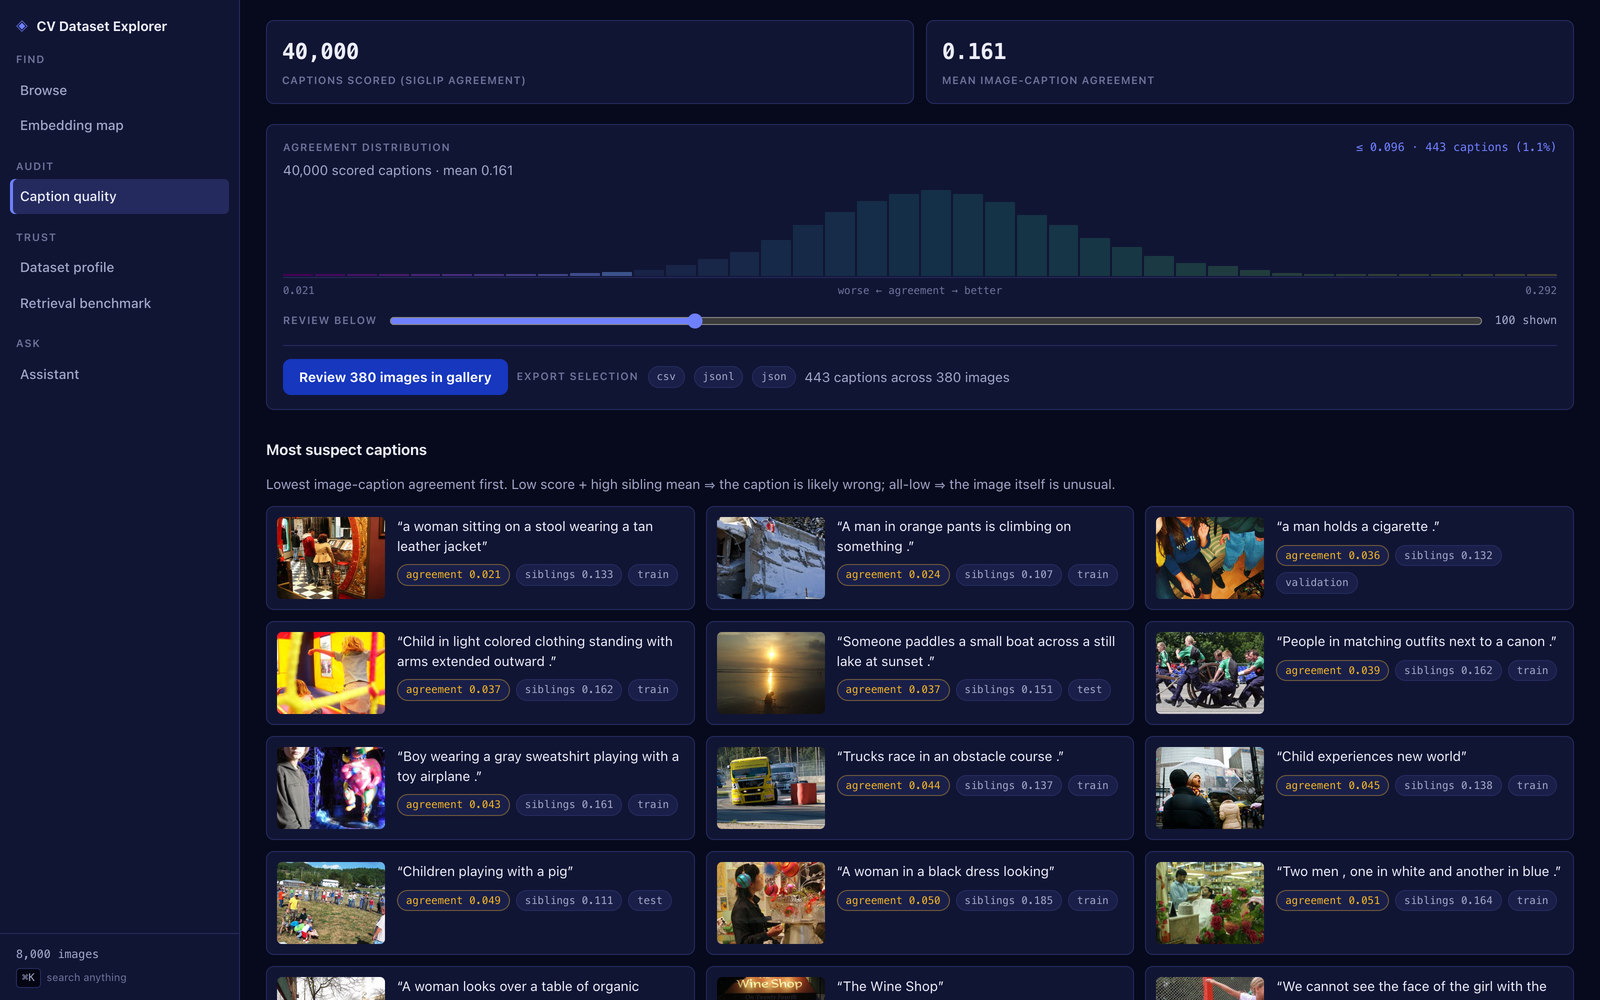
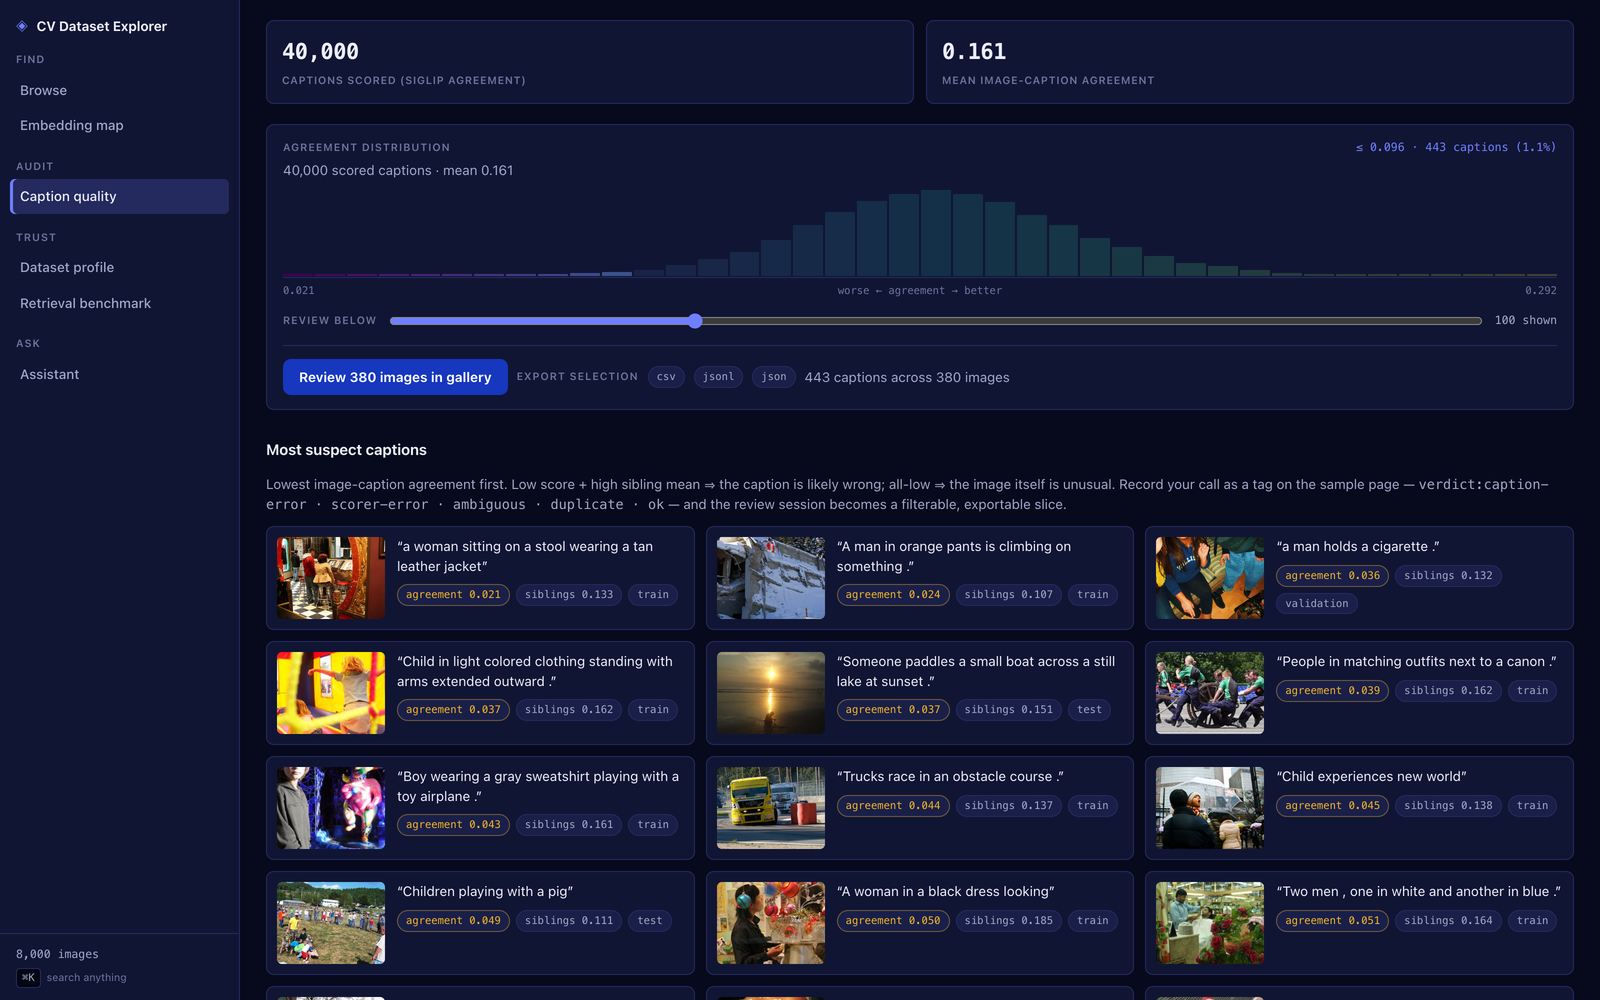
Sync the written record with what the app now shows
The inspector section names the similarity floor and the coverage-gap
state, the manifest line gains the embeddings fingerprint, named views
mention the env-differs warning, and the demo script quotes today's
measured sweep (90/90 in 76s, was 63/63). The two figures those words
describe are regenerated from the running app.

Changed region(s): [[0.1562, 0.465, 1.0, 1.0]]

diff --git a/README.md b/README.md
@@ -233,7 +233,11 @@ zero-shot attributes, metadata, tags, and nearest neighbours](docs/screenshots/9
 
 `/samples/1865` — All five captions with their individual agreement scores, so a
 disagreement is visible rather than averaged away, plus nearest neighbours in
-embedding space.
+embedding space. Each neighbour carries its cosine similarity; below a
+corpus-derived floor (the 10th percentile of nearest-neighbour similarity,
+`?min_sim=` to override) neighbours grey out rather than pose as a class, and
+when nothing clears it the page reports a possible coverage gap — the grid
+always returns k cards, so an absence has to be said, not padded over.
 
 ### Command palette
 
@@ -272,10 +276,10 @@ generated by a local 8B model, so quality varies between runs.
 - **Benchmark** — the tool measures its own search quality: standard Flickr8k text→image retrieval recall@1/5/10 for every mode, using the dataset's captions as ground truth. When a trained PRISM model is present, the table adds a paired test-split comparison so the boosted mode's gain is measured, not asserted.
 - **Assistant (optional)** — a chat interface backed by a **Fugu-style multi-agent orchestration** (LangGraph over local Ollama): an orchestrator routes requests to retrieval and insights specialist agents, and a synthesizer quality-gates the answer. Agents use the same service functions as the REST API and can search, inspect, analyze coverage, audit captions, and tag samples. The UI shows the agent/tool trace for every answer.
 - **Curation workflow, closing both ways** — the point of a search tool over a dataset is composing a training set, so a slice has to be able to leave and come back:
-  - **Out:** export the current view — filters *or* a ranked search result — as JSON, JSONL or CSV. The manifest records the query, the axis bounds and the embedding model, because a slice you cannot regenerate is not curation.
+  - **Out:** export the current view — filters *or* a ranked search result — as JSON, JSONL or CSV. The manifest records the query, the axis bounds, the embedding model and a fingerprint of the embeddings that scored it, because a slice you cannot regenerate is not curation.
   - **In:** paste or upload a list of ids or filenames (the **Id list** panel). Both are accepted because both are things you already have — this tool's own export, or anything that touched the images on disk. It composes with every other filter rather than replacing them, and reports how many entries exist here, so a list carried over from a larger corpus tells you "412 of your 500" instead of failing.
   - Tag samples manually, in bulk by lassoing a region of the map, or via the assistant; filter by tag.
-- **Named views** — save the current filter set under a name and restore it later. Stored as the URL query string, opaquely, so a view keeps working when the UI grows a filter the backend has no column for.
+- **Named views** — save the current filter set under a name and restore it later. Stored as the URL query string, opaquely, so a view keeps working when the UI grows a filter the backend has no column for. A view also pins the embedding model and corpus fingerprint it was saved under; restored in a different environment it still loads, with a non-blocking "env differs" warning instead of a silent lie.
 - **Legible filter state** — every active constraint appears as a removable chip above the results, so you never reach an empty page wondering which of five filters emptied it.
 - **Optional VLM enrichment** — tag every image with a local vision-language model via [Ollama](https://ollama.com).
 

diff --git a/docs/DEMO.md b/docs/DEMO.md
@@ -153,7 +153,7 @@ cd backend && uv run --with playwright --with python-pptx \
     --python .venv/bin/python python ../scripts/ui_smoke.py
 #   PASS  route /
 #   ...
-#   63/63 checks passed in 47s
+#   90/90 checks passed in 76s
 ```
 
 ---
